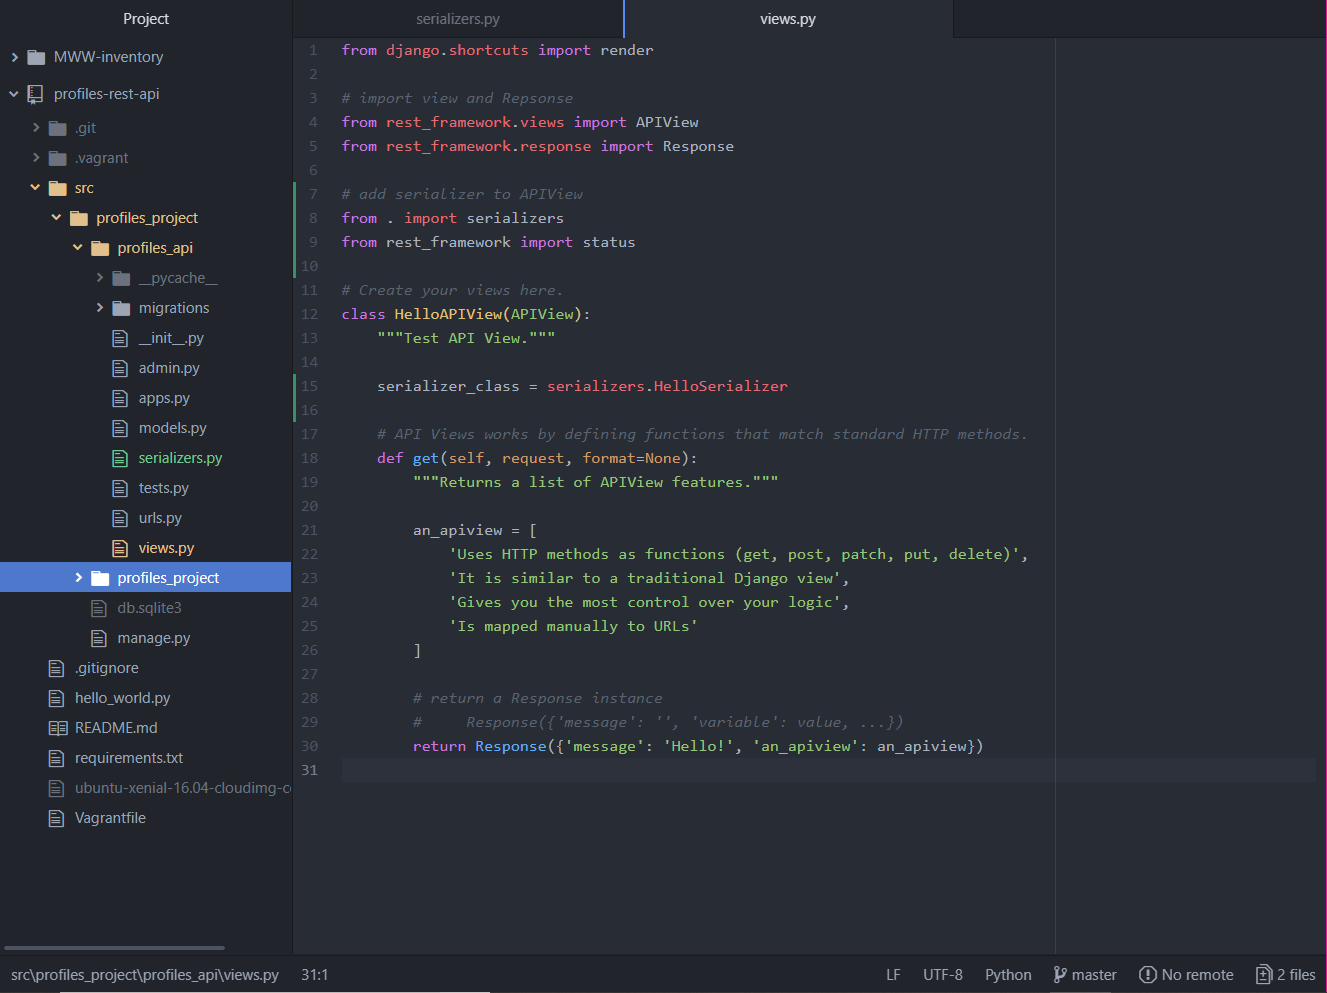
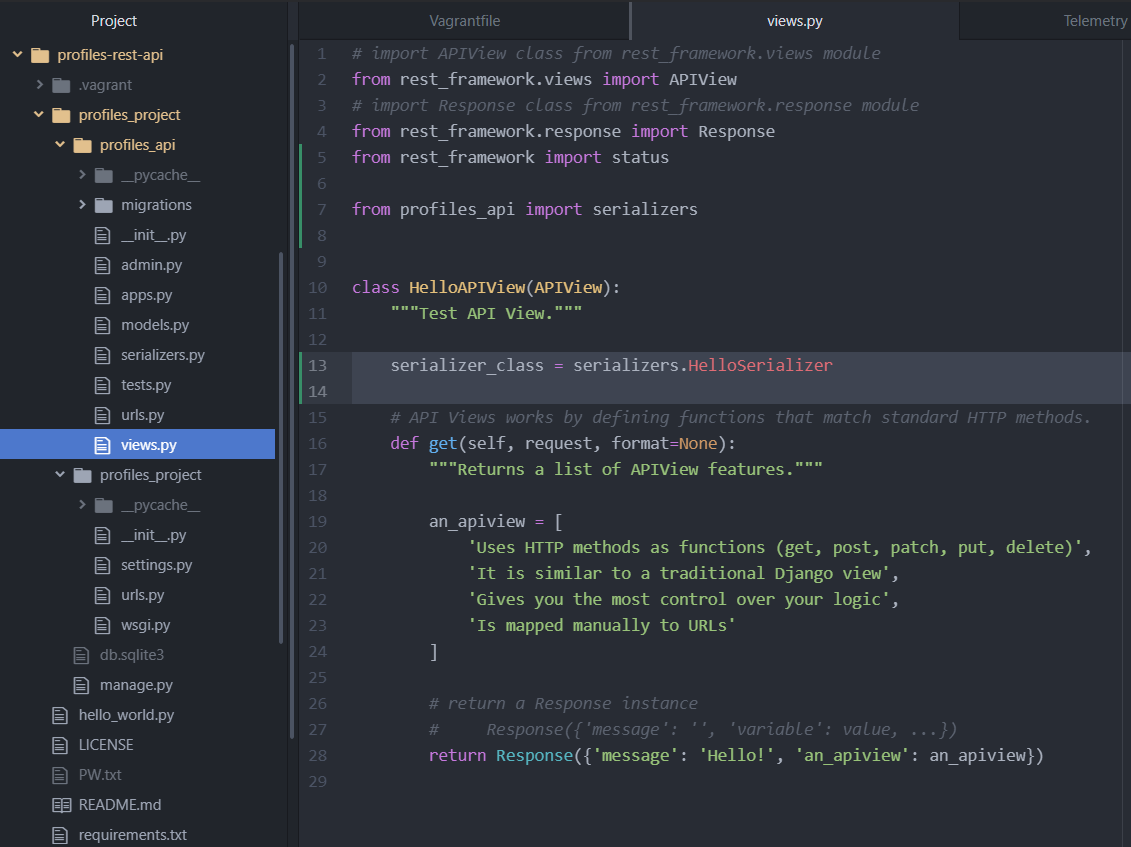
training update + code for adding POST method

diff --git a/REST/Udemy-Django-Python/profiles-rest-api/profiles_project/profiles_api/views.py b/REST/Udemy-Django-Python/profiles-rest-api/profiles_project/profiles_api/views.py
@@ -2,9 +2,15 @@
 from rest_framework.views import APIView
 # import Response class from rest_framework.response module
 from rest_framework.response import Response
+from rest_framework import status
+
+from profiles_api import serializers
+
 
 class HelloAPIView(APIView):
     """Test API View."""
+
+    serializer_class = serializers.HelloSerializer
 
     # API Views works by defining functions that match standard HTTP methods.
     def get(self, request, format=None):
@@ -20,3 +26,23 @@ class HelloAPIView(APIView):
         # return a Response instance
         #     Response({'message': '', 'variable': value, ...})
         return Response({'message': 'Hello!', 'an_apiview': an_apiview})
+
+    def post(self, request):
+        """Create a hello message with our name."""
+
+        # create our serializer - pass in the request information
+        # serializer = serializers.HelloSerializer(data=request.data)
+        serializer = self.serializer_class(data=request.data)
+
+        # check if serializer has valid data
+        if serializer.is_valid():
+            name = serializer.validated_data.get('name')
+            message = f"Hello {name}"
+            return Response({'message': message})
+        else:
+            # return a message about what went wrong and the status
+            # 400 means bad request to API
+            return Response(
+                serializer.errors,
+                status=status.HTTP_400_BAD_REQUEST
+                )
